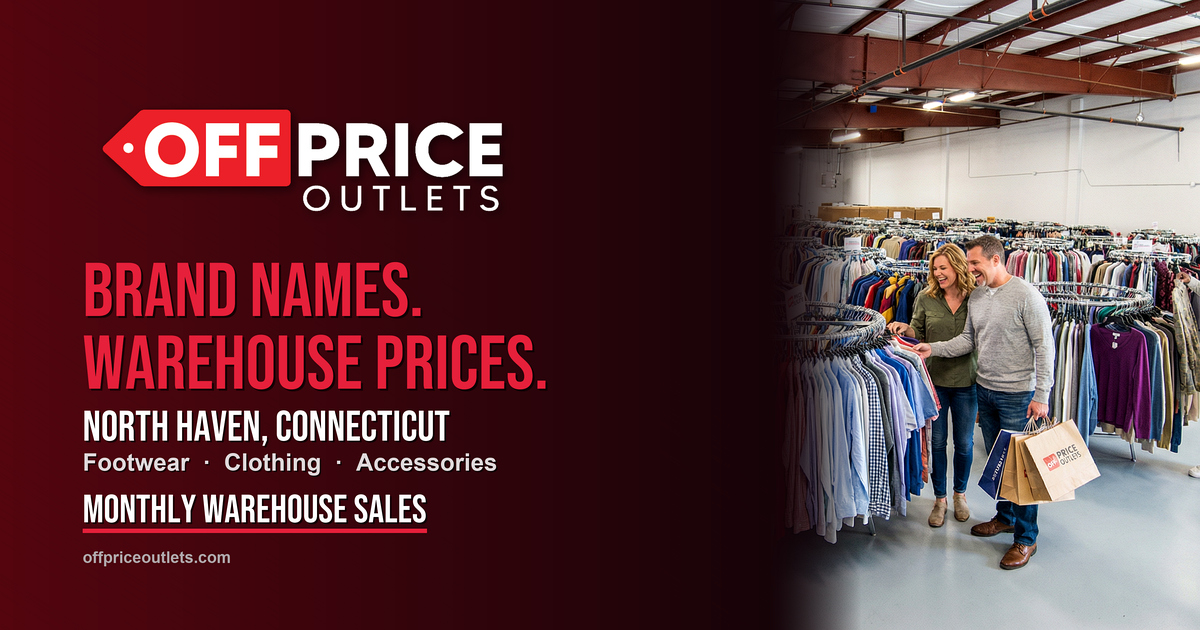
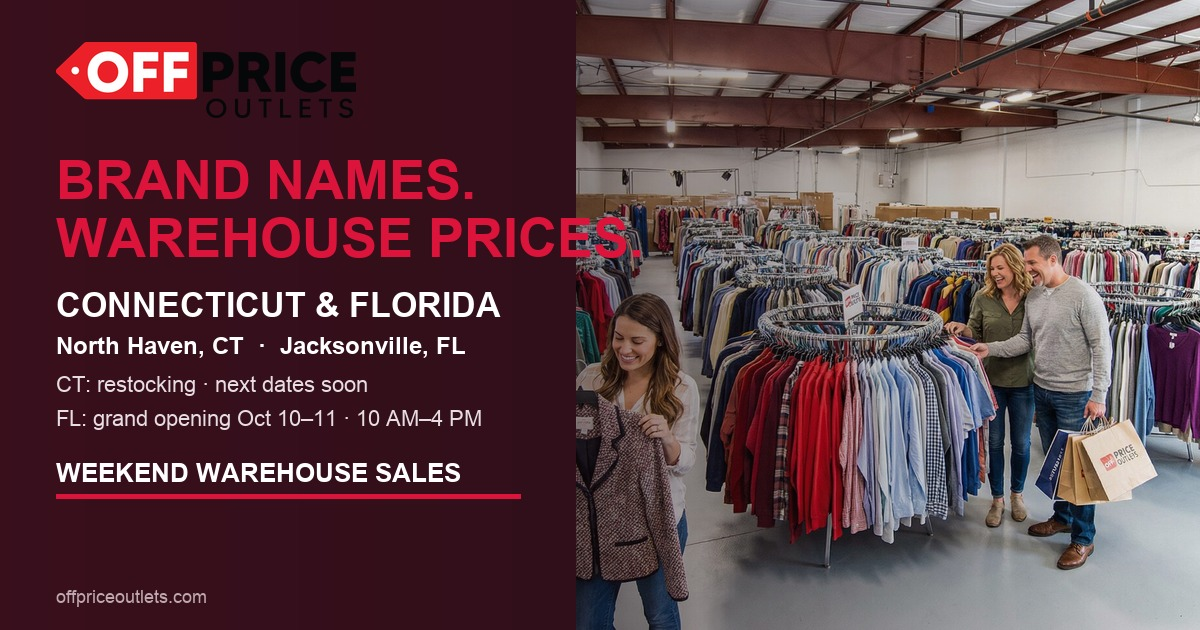
Refresh Open Graph share image for CT and FL messaging.
Regenerate og-image at 1200x630 with both locations and current sale
status, and bump cache-bust query so iMessage and social previews update.

diff --git a/index.html b/index.html
@@ -21,8 +21,8 @@
     <meta property="og:url" content="https://offpriceoutlets.com/">
     <meta property="og:title" content="Off Price Outlets | Connecticut &amp; Florida Warehouse Sales">
     <meta property="og:description" content="Two locations: North Haven, CT and Jacksonville, FL. FL grand opening Oct 10–11 · 10 AM–4 PM. Brand-name clothing, footwear &amp; accessories at warehouse prices.">
-    <meta property="og:image" content="https://offpriceoutlets.com/images/og-image.jpg?v=75">
-    <meta property="og:image:secure_url" content="https://offpriceoutlets.com/images/og-image.jpg?v=75">
+    <meta property="og:image" content="https://offpriceoutlets.com/images/og-image.jpg?v=77">
+    <meta property="og:image:secure_url" content="https://offpriceoutlets.com/images/og-image.jpg?v=77">
     <meta property="og:image:type" content="image/jpeg">
     <meta property="og:image:width" content="1200">
     <meta property="og:image:height" content="630">
@@ -32,7 +32,7 @@
     <meta name="twitter:card" content="summary_large_image">
     <meta name="twitter:title" content="Off Price Outlets | Connecticut &amp; Florida Warehouse Sales">
     <meta name="twitter:description" content="Two locations: North Haven, CT and Jacksonville, FL. FL grand opening Oct 10–11 · 10 AM–4 PM.">
-    <meta name="twitter:image" content="https://offpriceoutlets.com/images/og-image.jpg?v=75">
+    <meta name="twitter:image" content="https://offpriceoutlets.com/images/og-image.jpg?v=77">
 
     <link rel="icon" href="images/favicon.svg?v=68" type="image/svg+xml">
     <link rel="icon" href="images/favicon-32.png?v=68" type="image/png" sizes="32x32">
@@ -57,7 +57,7 @@
           "name": "Off Price Outlets",
           "url": "https://offpriceoutlets.com/",
           "logo": "https://offpriceoutlets.com/images/logo-official.png",
-          "image": "https://offpriceoutlets.com/images/og-image.jpg?v=75",
+          "image": "https://offpriceoutlets.com/images/og-image.jpg?v=77",
           "description": "Off Price Outlets hosts weekend warehouse sales with brand-name men's and women's clothing, footwear, and accessories at warehouse prices—often up to 90% off retail. Locations in North Haven, Connecticut and Jacksonville, Florida.",
           "sameAs": [
             "https://www.instagram.com/offpriceoutletsct/",
@@ -72,7 +72,7 @@
           "name": "Off Price Outlets — North Haven",
           "parentOrganization": { "@id": "https://offpriceoutlets.com/#organization" },
           "url": "https://offpriceoutlets.com/#locations",
-          "image": "https://offpriceoutlets.com/images/og-image.jpg?v=75",
+          "image": "https://offpriceoutlets.com/images/og-image.jpg?v=77",
           "description": "Monthly warehouse sales in North Haven, Connecticut on select weekend dates. Brand-name clothing, footwear, and accessories at warehouse prices.",
           "address": {
             "@type": "PostalAddress",
@@ -96,7 +96,7 @@
           "name": "Off Price Outlets — Jacksonville",
           "parentOrganization": { "@id": "https://offpriceoutlets.com/#organization" },
           "url": "https://offpriceoutlets.com/#locations",
-          "image": "https://offpriceoutlets.com/images/og-image.jpg?v=75",
+          "image": "https://offpriceoutlets.com/images/og-image.jpg?v=77",
           "description": "Off Price Outlets Jacksonville, Florida. Grand opening warehouse sale October 10–11, 2026, 10 AM–4 PM. Brand-name clothing, footwear, and accessories.",
           "address": {
             "@type": "PostalAddress",
@@ -135,7 +135,7 @@
               "addressCountry": "US"
             }
           },
-          "image": "https://offpriceoutlets.com/images/og-image.jpg?v=75",
+          "image": "https://offpriceoutlets.com/images/og-image.jpg?v=77",
           "organizer": { "@id": "https://offpriceoutlets.com/#organization" },
           "offers": {
             "@type": "AggregateOffer",
